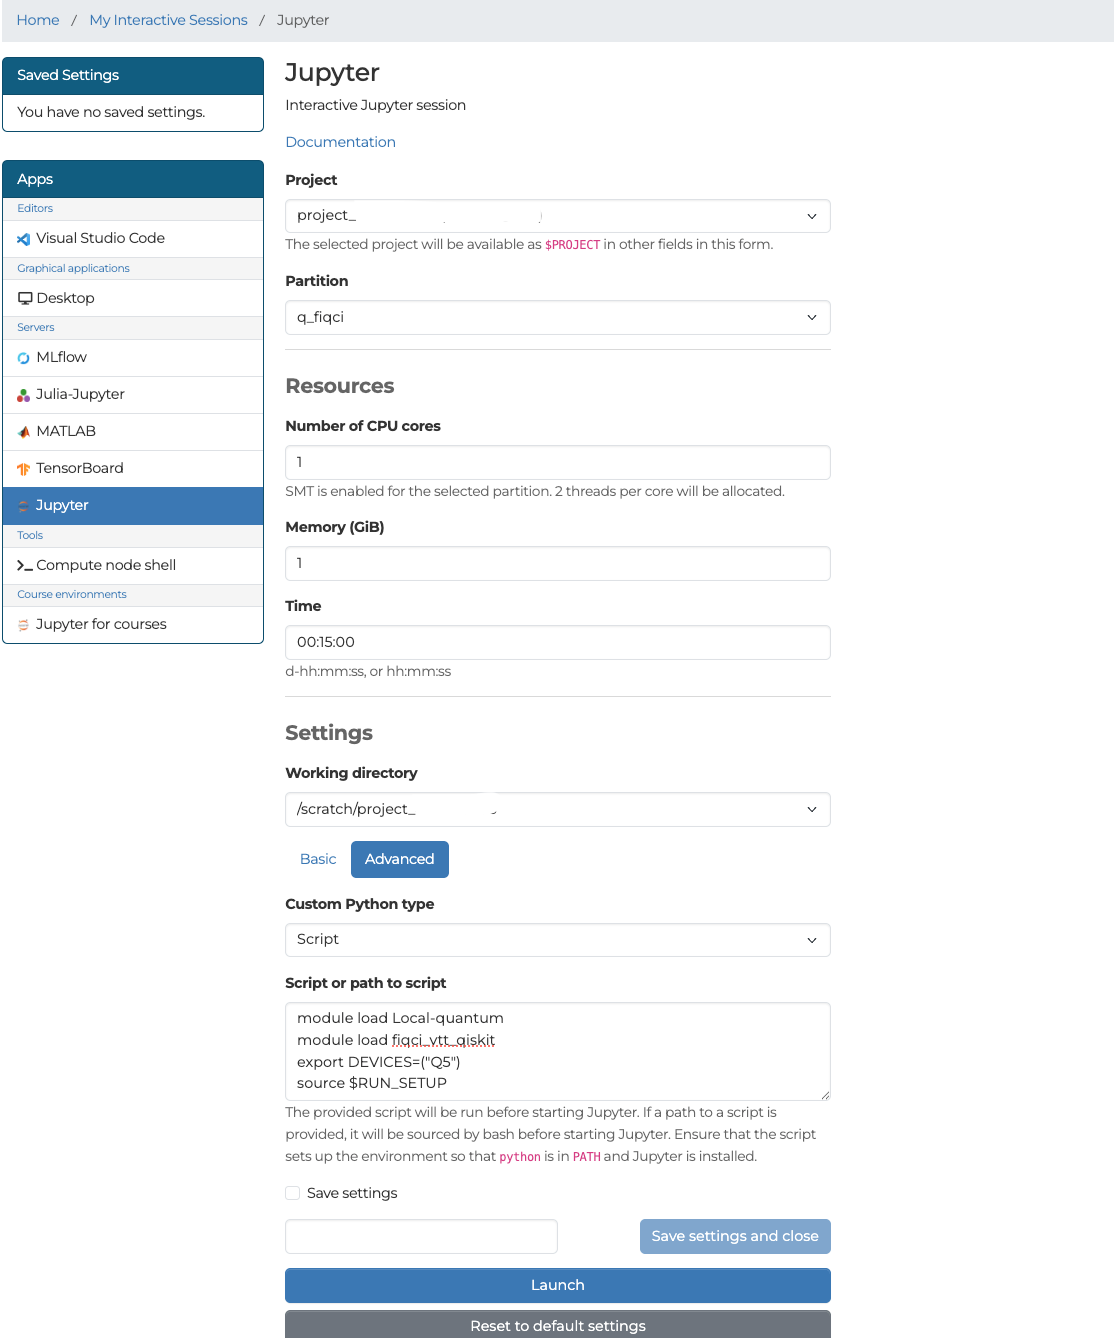
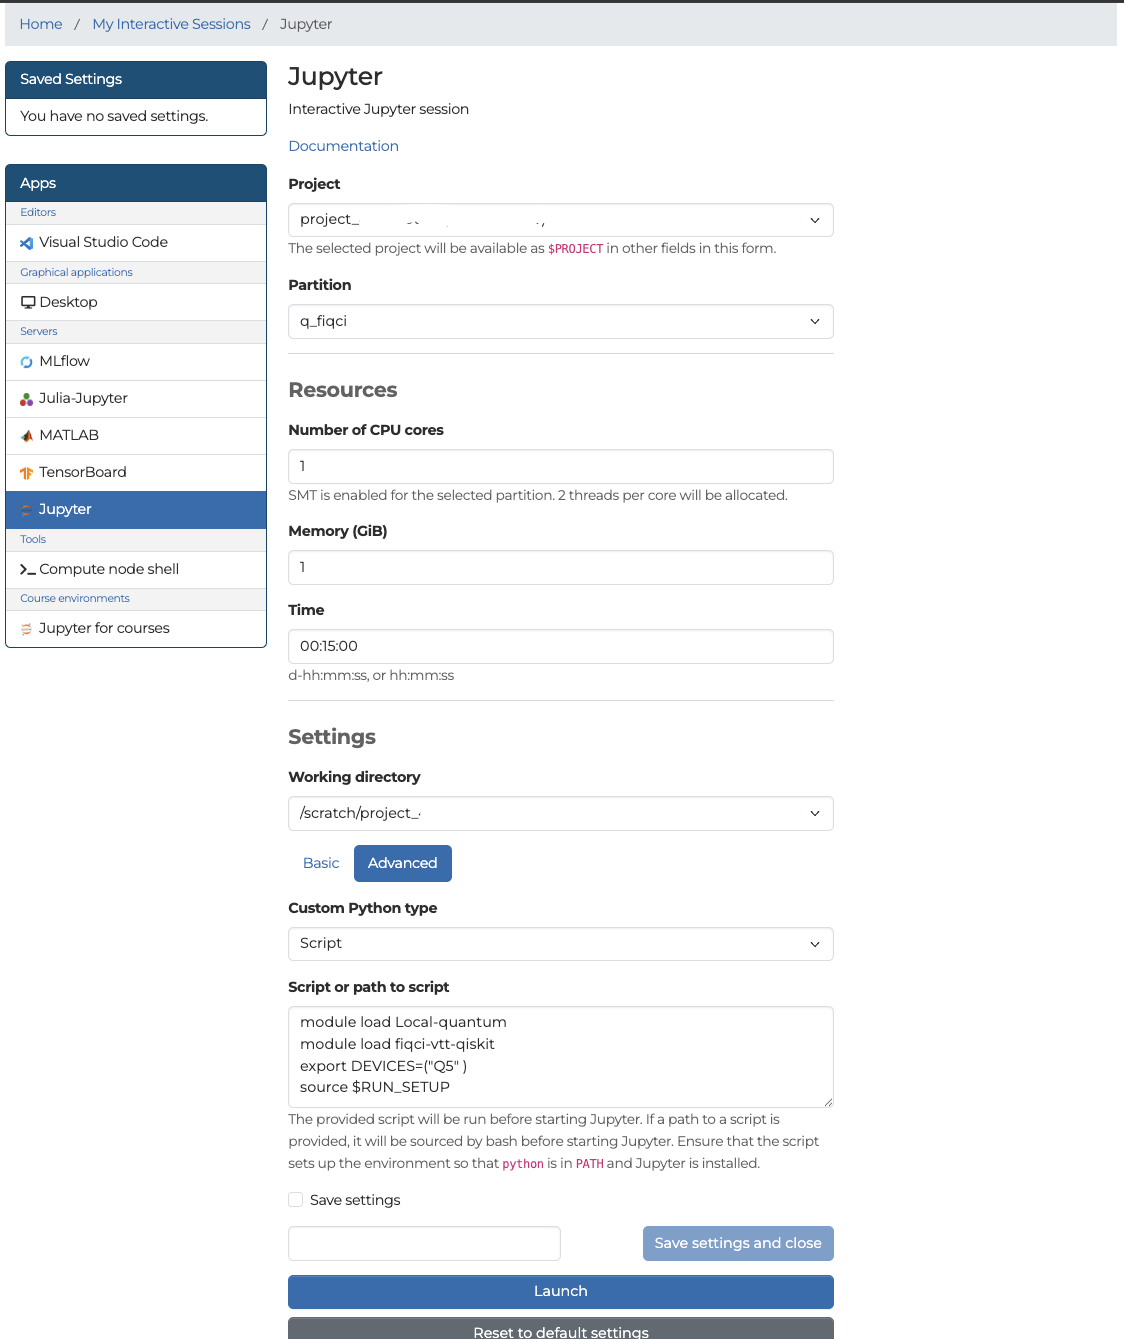
fix module names and update pennylane

Changed region(s): [[0.2135, 0.2758, 0.7623, 1.0], [0.0, 0.0, 0.6709, 0.4903], [0.2135, 0.4596, 0.2439, 0.4903]]

diff --git a/docs/computing/quantum-computing/running-quantum-jobs.md b/docs/computing/quantum-computing/running-quantum-jobs.md
@@ -12,8 +12,11 @@ Currently, Helmi and Q50 support job submissions using Qiskit or Cirq. These scr
 
 To run jobs on the quantum computers, follow these steps to set up the correct environment on LUMI:
 
-* Run `module use /appl/local/quantum/modulefiles`. 
-This command makes the available modules visible via `module avail`.
+**Note:** Run these commands either in your batch script or within an interactive session started via `srun`.
+
+* Add the module path so the system can locate the available modules:
+
+`module use /appl/local/quantum/modulefiles`
 
 * Load the appropriate environment module depending on your framework:
     * For Qiskit: `module load fiqci-vtt-qiskit` 
@@ -111,12 +114,35 @@ Here is an example batch script to submit a quantum job
 
 The batch script can then be submitted with `sbatch`. You can also submit interactive jobs through `srun`.
 
-```bash
-module use /appl/local/quantum/modulefiles
-module --ignore_cache load "fiqci_vtt_qiskit"
-export DEVICES=("Q50")
-srun --account project_xxx -t 00:15:00 -c 1 -n 1 --partition q_fiqci bash -c "source $RUN_SETUP && python -u your_python_script.py"
-```
+=== "Helmi"
+    ```bash
+    # Using Helmi
+
+    module use /appl/local/quantum/modulefiles
+    module --ignore_cache load "fiqci-vtt-qiskit"
+    export DEVICES=("Q5")
+    srun --account project_xxx -t 00:15:00 -c 1 -n 1 --partition q_fiqci bash -c "source $RUN_SETUP && python your_python_script.py"
+    ```
+
+=== "Q50"
+    ```bash
+    # Using Q50
+
+    module use /appl/local/quantum/modulefiles
+    module --ignore_cache load "fiqci-vtt-qiskit"
+    export DEVICES=("Q50")
+    srun --account project_xxx -t 00:15:00 -c 1 -n 1 --partition q_fiqci bash -c "source $RUN_SETUP && python your_python_script.py"
+    ```
+
+=== "Multiple backends"
+    ```bash
+    # Using multiple backends
+
+    module use /appl/local/quantum/modulefiles
+    module --ignore_cache load "fiqci-vtt-qiskit"
+    export DEVICES=("Q5" "Q50")
+    srun --account project_xxx -t 00:15:00 -c 1 -n 1 --partition q_fiqci bash -c "source $RUN_SETUP && python your_python_script.py"
+    ```
 
 The `fiqci-vtt-*` module sets up the correct python environment to use Qiskit or Cirq in conjunction with the quantum computers.
 
@@ -457,13 +483,19 @@ After successfully authenticating, you should now have access to your dashboard.
 
 It is recommended to use the `Advanced settings`. Under the `Custom init` option select Text, and under the `Script to start` textbox enter the following script to configure the environment to use the quantum software stack.
 
-```bash
-module use /appl/local/quantum/modulefiles
-module load fiqci-vtt-qiskit # or module load fiqci-vtt-cirq
-```
+=== "Qiskit"
+    ```bash
+    module use /appl/local/quantum/modulefiles
+    module load fiqci-vtt-qiskit
+    ```
 
-!["Qcs with LUMI web"](../../img/Quantum_jobs_lumi_web.png)
+=== "Cirq"
+    ```bash
+    module use /appl/local/quantum/modulefiles
+    module load fiqci-vtt-cirq
+    ```
 
+!["Qcs with LUMI web"](../../img/quantum_jobs_lumi_web.png)
 
 Click on launch to start your Jupyter session. This will launch Jupyter using the command python -m Jupyter lab. If you are using Helmi/Q50 during a quantum computing course, a custom environment may have been created specifically for the course. In this case, you can access the quantum computers using the Jupyter-for-courses app.
 

diff --git a/docs/computing/quantum-computing/first-quantum-job.md b/docs/computing/quantum-computing/first-quantum-job.md
@@ -175,12 +175,35 @@ Once you've made your first quantum program remember to save! CTRL+X then Y to s
 
 To run your quantum programme on LUMI you will need to submit the job through the SLURM batch scheduler on LUMI. Accessing the quantum computers (Helmi, Q50) is done through the `q_fiqci` partition. In the same directory where you have saved your quantum program, you can submit the job to SLURM using:
 
-```bash
-module use /appl/local/quantum/modulefiles
-module --ignore_cache load "fiqci_vtt_qiskit"
-export DEVICES=("Q50")
-srun --account project_xxx -t 00:15:00 -c 1 -n 1 --partition q_fiqci bash -c "source $RUN_SETUP && python -u first_quantum_job.py"
-```
+=== "Helmi"
+    ```bash
+    # Using Helmi
+
+    module use /appl/local/quantum/modulefiles
+    module --ignore_cache load "fiqci-vtt-qiskit"
+    export DEVICES=("Q5")
+    srun --account project_xxx -t 00:15:00 -c 1 -n 1 --partition q_fiqci bash -c "source $RUN_SETUP && python -u first_quantum_job.py"
+    ```
+
+=== "Q50"
+    ```bash
+    # Using Q50
+
+    module use /appl/local/quantum/modulefiles
+    module --ignore_cache load "fiqci-vtt-qiskit"
+    export DEVICES=("Q50")
+    srun --account project_xxx -t 00:15:00 -c 1 -n 1 --partition q_fiqci bash -c "source $RUN_SETUP && python -u first_quantum_job.py"
+    ```
+
+=== "Multiple backends"
+    ```bash
+    # Using multiple backends
+
+    module use /appl/local/quantum/modulefiles
+    module --ignore_cache load "fiqci-vtt-qiskit"
+    export DEVICES=("Q5" "Q50")
+    srun --account project_xxx -t 00:15:00 -c 1 -n 1 --partition q_fiqci bash -c "source $RUN_SETUP && python -u first_quantum_job.py"
+    ```
 
 Remember to add your own project account!
 

diff --git a/docs/apps/pennylane.md b/docs/apps/pennylane.md
@@ -21,9 +21,8 @@ Currently supported pennylane versions:
 
 | Version | Module                               | LUMI  | Notes           |
 |:--------|:-------------------------------------|:-----:|-----------------|
-| 0.40.0  | `pennylane-lightning/0.40.0-gpu`     | X     | default version |
-| 0.39.0  | `pennylane-lightning/0.39.0-gpu`     | X     |                 |
-| 0.38.0  | `pennylane-lightning/0.38.0-gpu`     | X     |                 |
+| 0.41.1  | `pennylane-lightning/0.41.1-gpu`     | X     | default version |
+| 0.40.0  | `pennylane-lightning/0.40.0-gpu`     | X     |                 |
 
 All modules are based on Tykky using LUMI-container-wrapper.
 Wrapper scripts have been provided so that common commands such as `python`,
@@ -54,10 +53,10 @@ If you wish to have a specific version ([see above for available
 versions](#available)), use:
 
 ```bash
-module load pennylane-lightning/0.40.0-gpu
+module load pennylane-lightning/0.41.1-gpu
 ```
 
-where `0.40.0-gpu` is the specified version
+where `0.41.1-gpu` is the specified version
 
 This command will also show all available versions:
 
@@ -84,7 +83,7 @@ Example batch script for reserving one GPU and CPU core in a single node:
 export OMP_PROC_BIND=spread  
 export OMP_PLACES=threads
 
-module load Local-quantum # or module use /appl/local/quantum/modulefiles
+module use /appl/local/quantum/modulefiles # or module load Local-quantum
 module load pennylane-lightning
 python <file_name>.py
 ```
